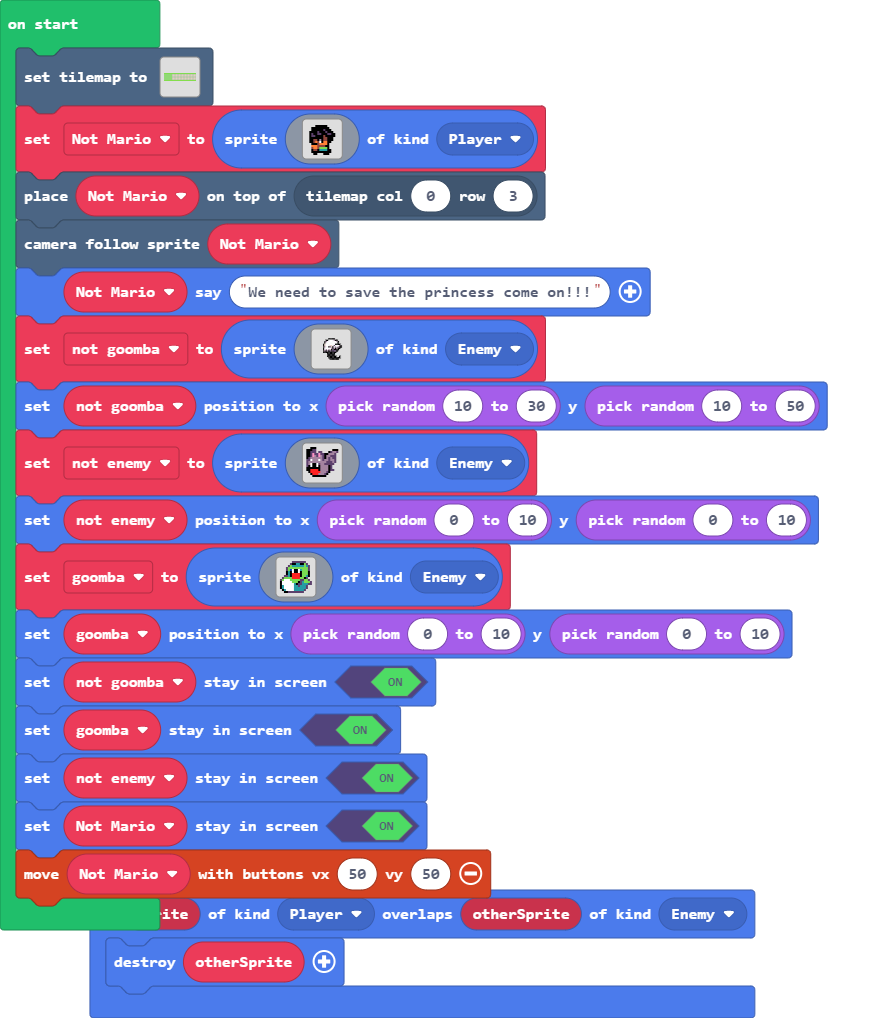
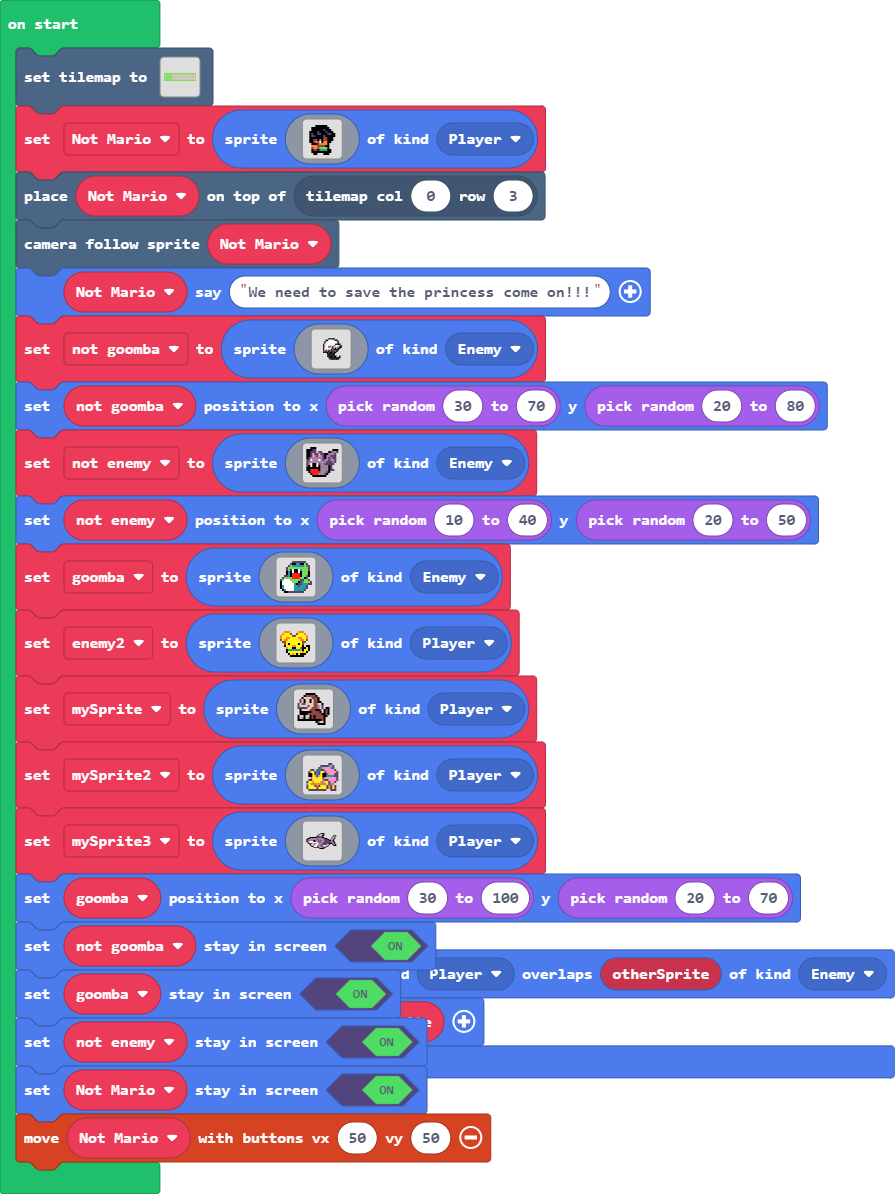
Update pxt.json, main.blocks, main.ts

diff --git a/main.ts b/main.ts
@@ -49,7 +49,7 @@ let not_goomba = sprites.create(img`
     ........................
     ........................
     `, SpriteKind.Enemy)
-not_goomba.setPosition(randint(10, 30), randint(10, 50))
+not_goomba.setPosition(randint(30, 70), randint(20, 80))
 let not_enemy = sprites.create(img`
     . . f f f . . . . . . . . . . . 
     f f f c c . . . . . . . . f f f 
@@ -68,7 +68,7 @@ let not_enemy = sprites.create(img`
     . . . f f f f f f f . . . . . . 
     . . . . . . . . . . . . . . . . 
     `, SpriteKind.Enemy)
-not_enemy.setPosition(randint(0, 10), randint(0, 10))
+not_enemy.setPosition(randint(10, 40), randint(20, 50))
 let goomba = sprites.create(img`
     . . . . . . c c c c c c c . . . 
     . . . . . c f f 6 6 f f 7 c . . 
@@ -87,7 +87,77 @@ let goomba = sprites.create(img`
     . f 6 1 1 1 1 6 6 6 6 6 c . . . 
     . . f f c c c c c c c c . . . . 
     `, SpriteKind.Enemy)
-goomba.setPosition(randint(0, 10), randint(0, 10))
+let enemy2 = sprites.create(img`
+    . . . . . . . . . . . . . . . . 
+    . . 4 4 4 . . . . 4 4 4 . . . . 
+    . 4 5 5 5 e . . e 5 5 5 4 . . . 
+    4 5 5 5 5 5 e e 5 5 5 5 5 4 . . 
+    4 5 5 4 4 5 5 5 5 4 4 5 5 4 . . 
+    e 5 4 4 5 5 5 5 5 5 4 4 5 e . . 
+    . e e 5 5 5 5 5 5 5 5 e e . . . 
+    . . e 5 f 5 5 5 5 f 5 e . . . . 
+    . . f 5 5 5 4 4 5 5 5 f . f f . 
+    . . . 4 5 5 f f 5 5 6 f f 5 f . 
+    . . . f 6 6 6 6 6 6 4 f 5 5 f . 
+    . . . f 5 5 5 5 5 5 5 4 5 f . . 
+    . . . . f 5 4 5 f 5 f f f . . . 
+    . . . . . f f f f f f f . . . . 
+    `, SpriteKind.Player)
+let mySprite = sprites.create(img`
+    . . . . f f f f f . . . . . . . 
+    . . . f e e e e e f . . . . . . 
+    . . f d d d d e e e f . . . . . 
+    . c d f d d f d e e f . . . . . 
+    . c d f d d f d e e f f . . . . 
+    c d e e d d d d e e d d f . . . 
+    c d d d d c d d e e b d c . . . 
+    c c c c c d d e e e b d c . f f 
+    . f d d d d e e e f f c . f e f 
+    . f f f f f f e e e e f . f e f 
+    . f f f f e e e e e e e f f e f 
+    f d d f d d f e f e e e e f f . 
+    f d b f d b f e f e e e e f . . 
+    f f f f f f f f f f f f e f . . 
+    . . . . . . . . . f c d d f . . 
+    . . . . . . . . . . f f f f . . 
+    `, SpriteKind.Player)
+let mySprite2 = sprites.create(img`
+    . . . . . . . . . . . . . . . . 
+    . . . . . . . . . . . . . . . . 
+    . . . . . . . . . . . c c . . . 
+    . . . . . . . c c c c 6 3 c . . 
+    . . . . . . c 6 3 3 3 3 6 c . . 
+    . . c c . c 6 c c 3 3 3 3 3 c . 
+    . c 5 5 c 6 c 5 5 c 3 3 3 3 3 c 
+    . f f 5 c 6 c 5 f f 6 3 3 3 c c 
+    . f f 5 3 c 3 5 f f 6 6 6 6 c c 
+    . . b 5 5 3 5 5 c 3 3 3 3 3 3 c 
+    . c c 5 5 5 5 5 b c c 3 3 3 3 c 
+    c 5 5 4 5 5 5 4 b 5 5 c 3 3 c . 
+    b 5 4 b 4 4 4 4 b b 5 c b b . . 
+    c 5 5 5 c 4 c 5 5 5 c 4 c 5 c . 
+    c 5 5 5 5 c 5 5 5 5 c 4 c 5 c . 
+    . c c c c c c c c c . . c c c . 
+    `, SpriteKind.Player)
+let mySprite3 = sprites.create(img`
+    ..............cfff..............
+    ............ccddbf..............
+    ...........cbddbff.........ccc..
+    ..........fccbbcf.........cbbc..
+    ...fffffffccccccff.......cdbc...
+    .ffcbbbbbbbbbbbbbcfff....cdbf...
+    fcbbbbbbbbbcbbbbbbcccff.cdbf....
+    fbcbbbbffbbbcbcbbbcccccffdcf....
+    fbb1111ffbbbcbcbbbccccccbbcf....
+    .fb11111111bbcbbbccccccccbbcf...
+    ..fccc33cb11bbbbcccccccfffbbf...
+    ...fc131c111bbbcccccbdbc..fbbf..
+    ....f33c111cbbccdddddbc....fff..
+    .....ff1111fdbbccddbcc..........
+    .......cccccfdbbbfcc............
+    .............fffff..............
+    `, SpriteKind.Player)
+goomba.setPosition(randint(30, 100), randint(20, 70))
 not_goomba.setStayInScreen(true)
 goomba.setStayInScreen(true)
 not_enemy.setStayInScreen(true)
